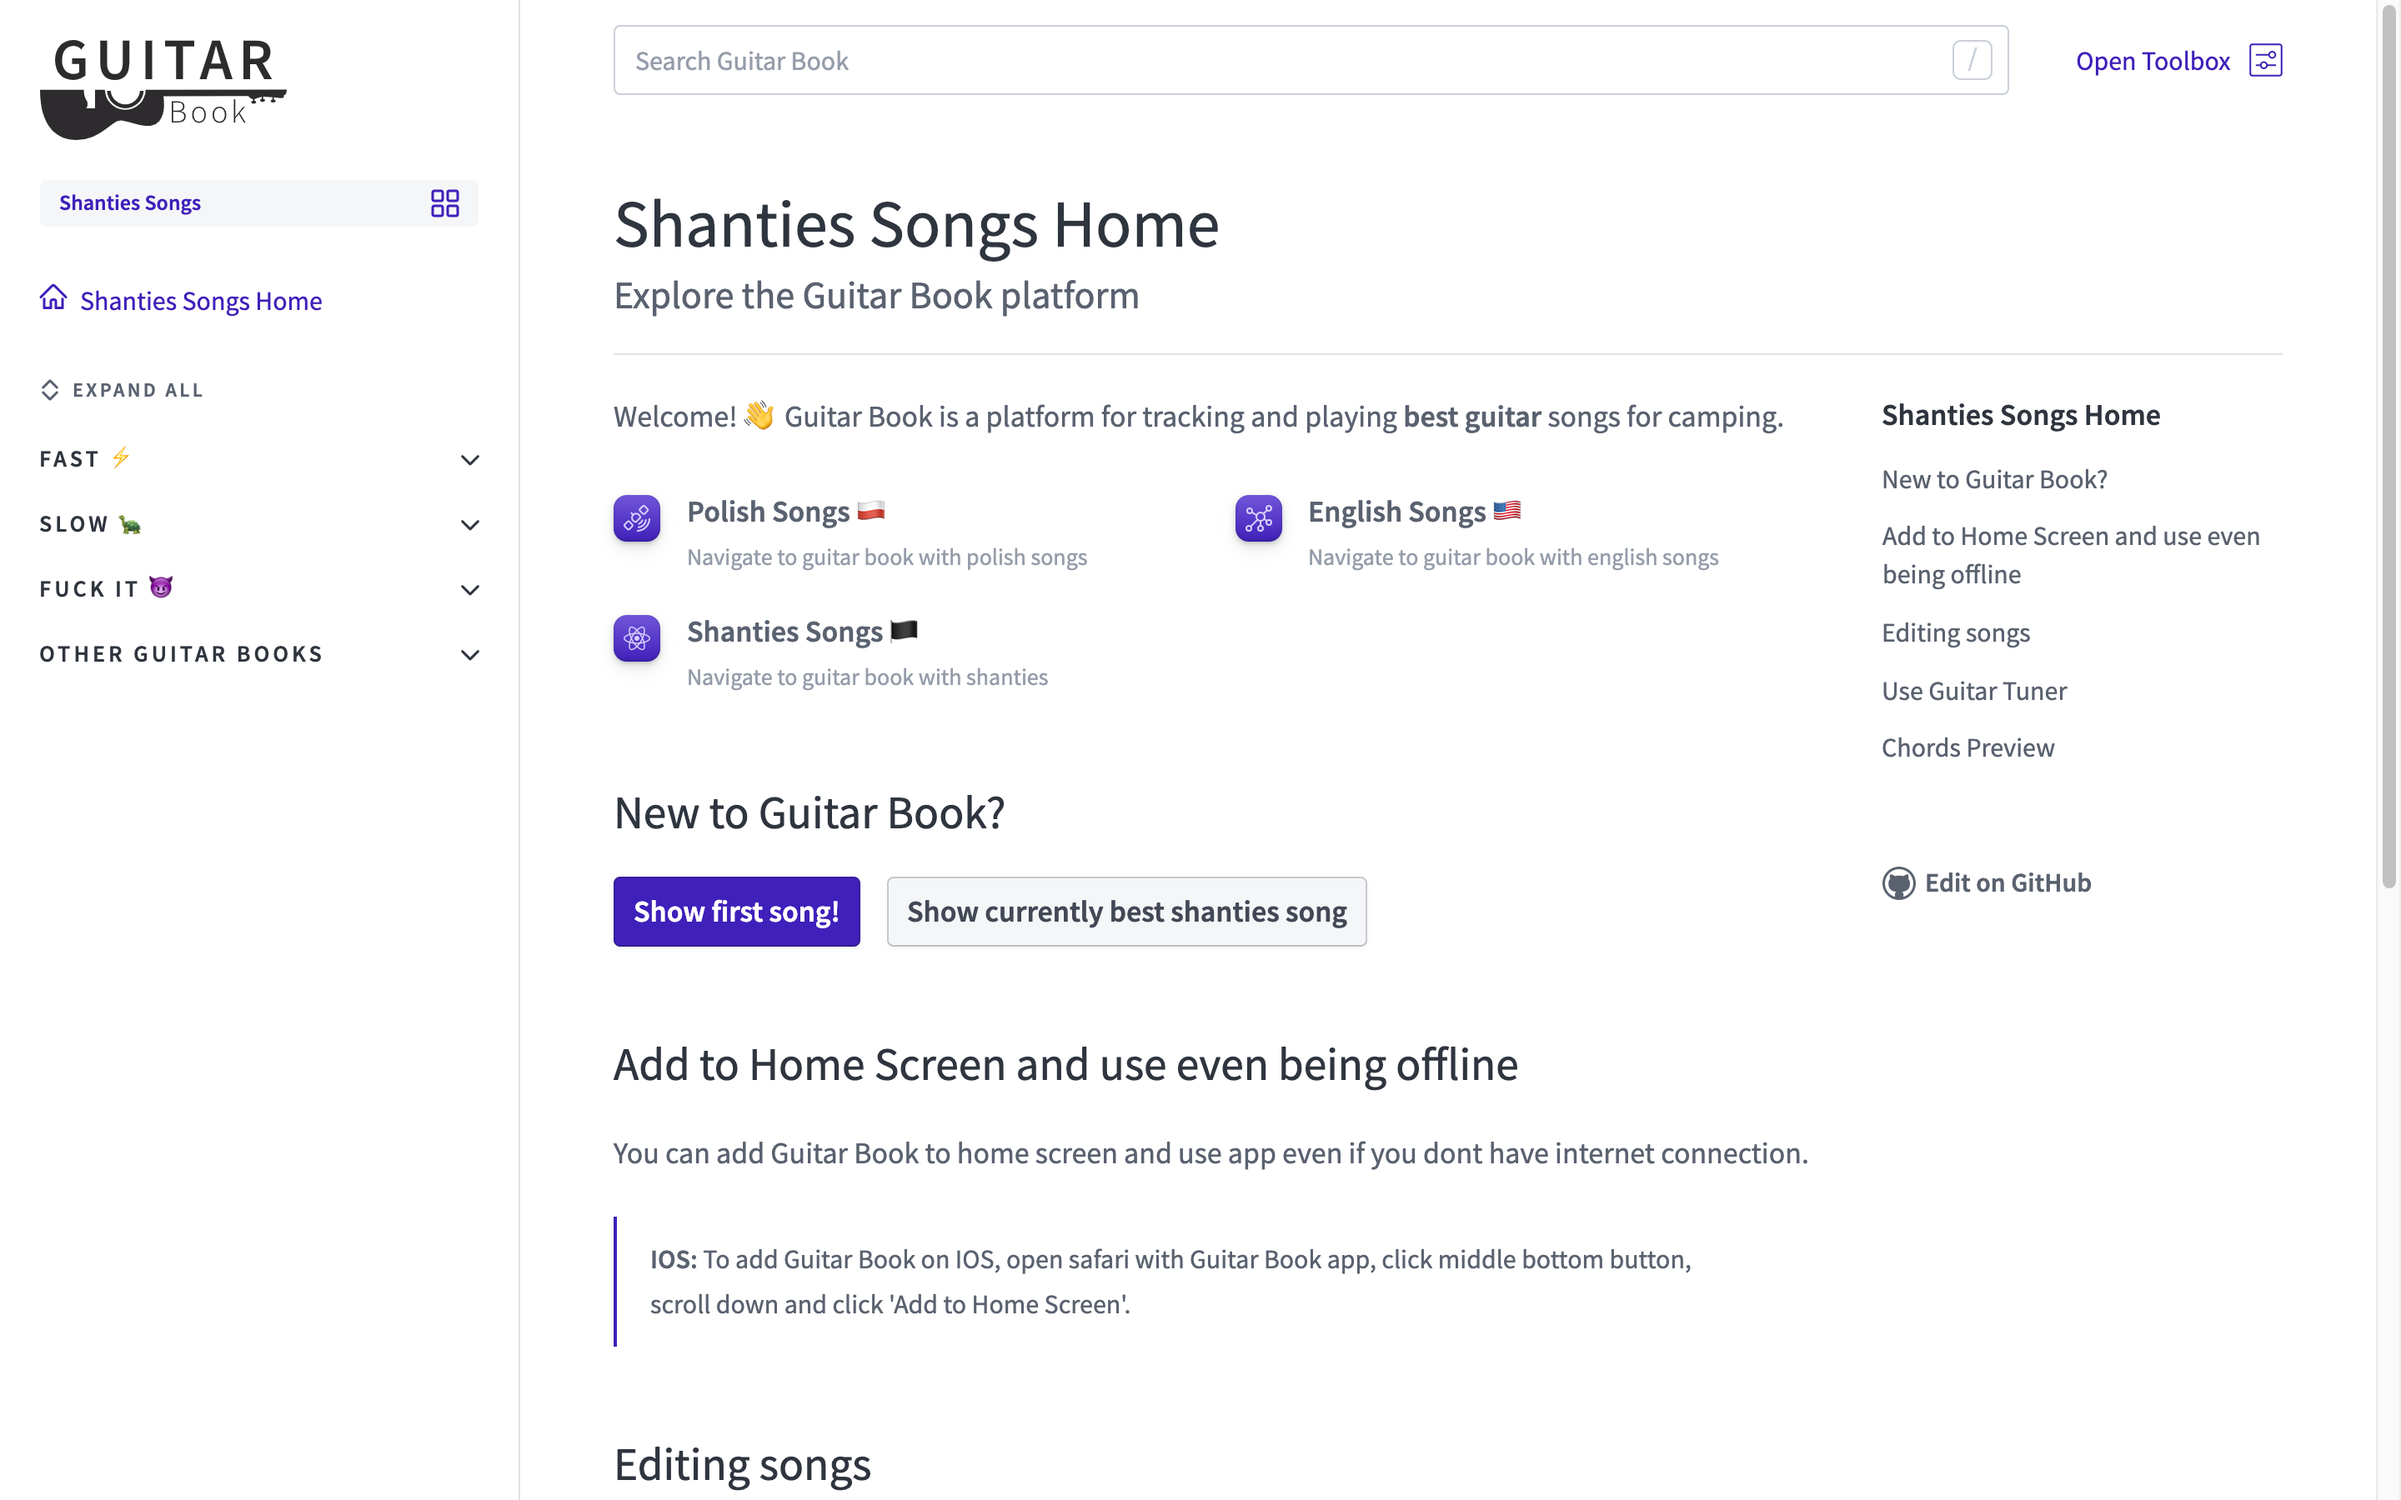
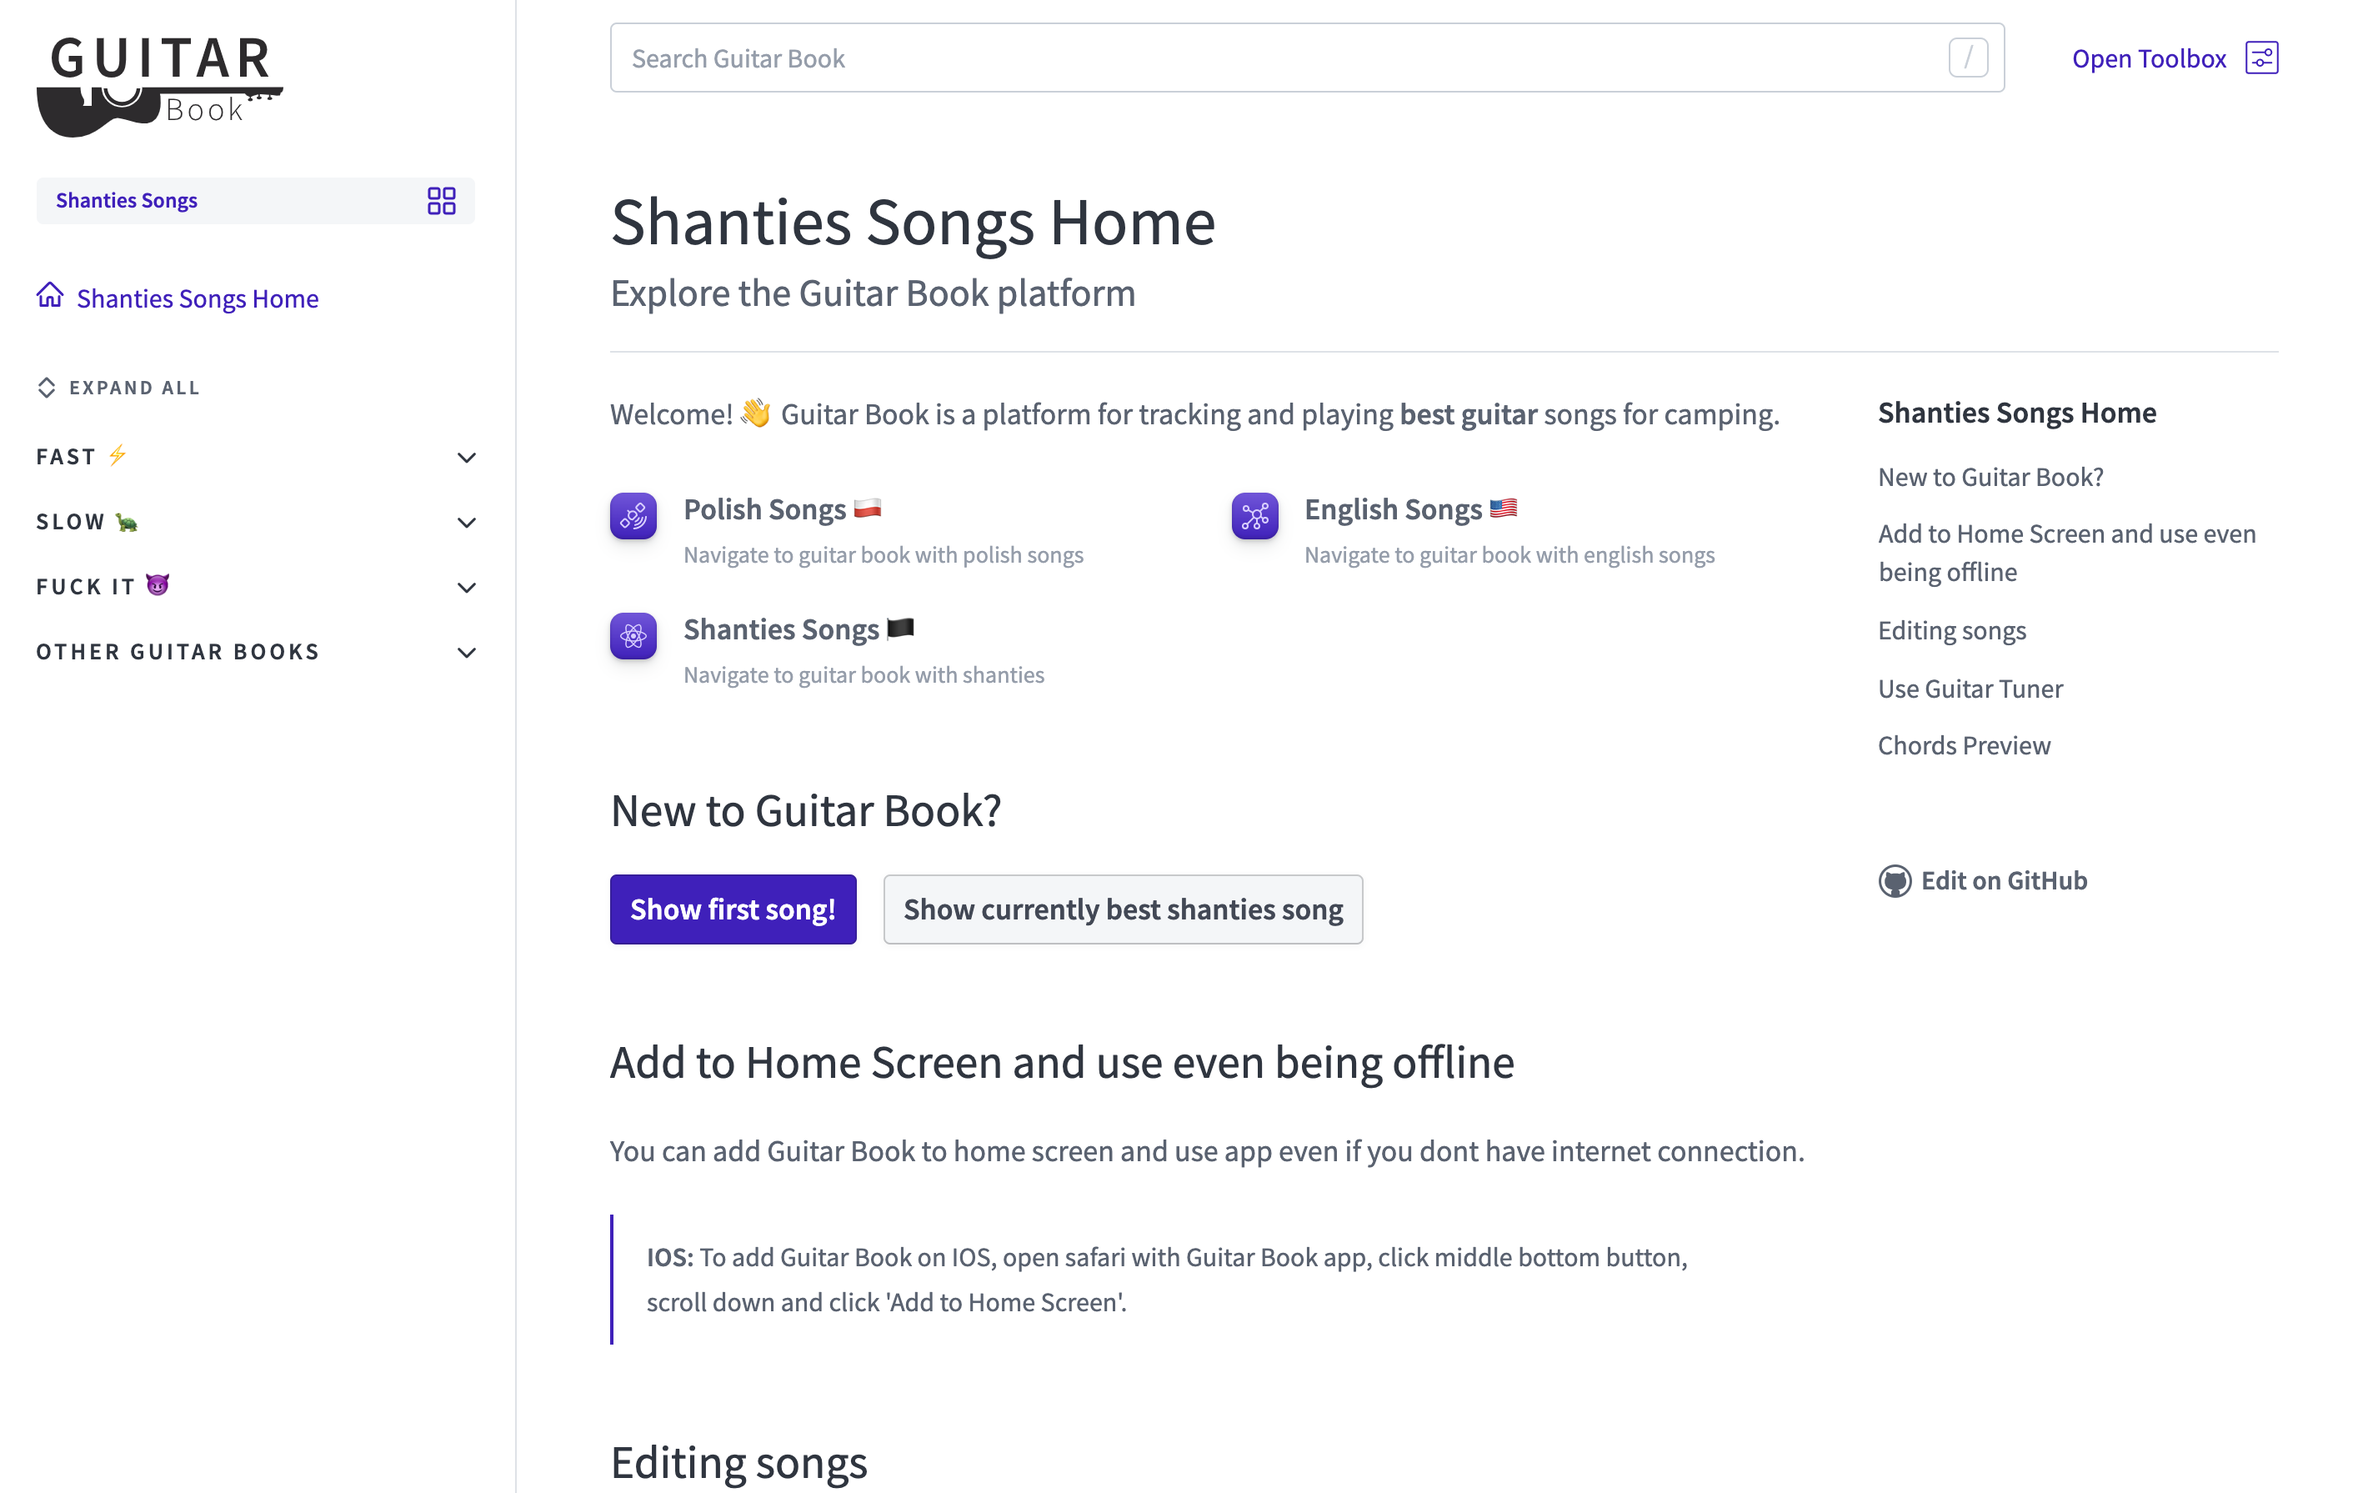
Edit screenshots

diff --git a/README.md b/README.md
@@ -34,13 +34,15 @@ It also exports a series of [components](#components) that can be used within MD
 
 <br/>
 <br/>
-<img alt="desktop preview" src="graphics/screenshots/desktop_preview.png" height="500" align="center" />
+<div align="center">
+    <img alt="desktop preview" src="graphics/screenshots/desktop_preview.png" height="500" />
+</div>
 <br/>
 <div align="center">
   <img alt="mobile preview" src="graphics/screenshots/mobile_preview.png" height="250" />
   &emsp;&emsp;&emsp;
   <img alt="mobile icon preview" src="graphics/screenshots/mobile_icon_preview.jpg" height="200" />
-<div/>
+</div>
 <br/>
 <br/>
 
